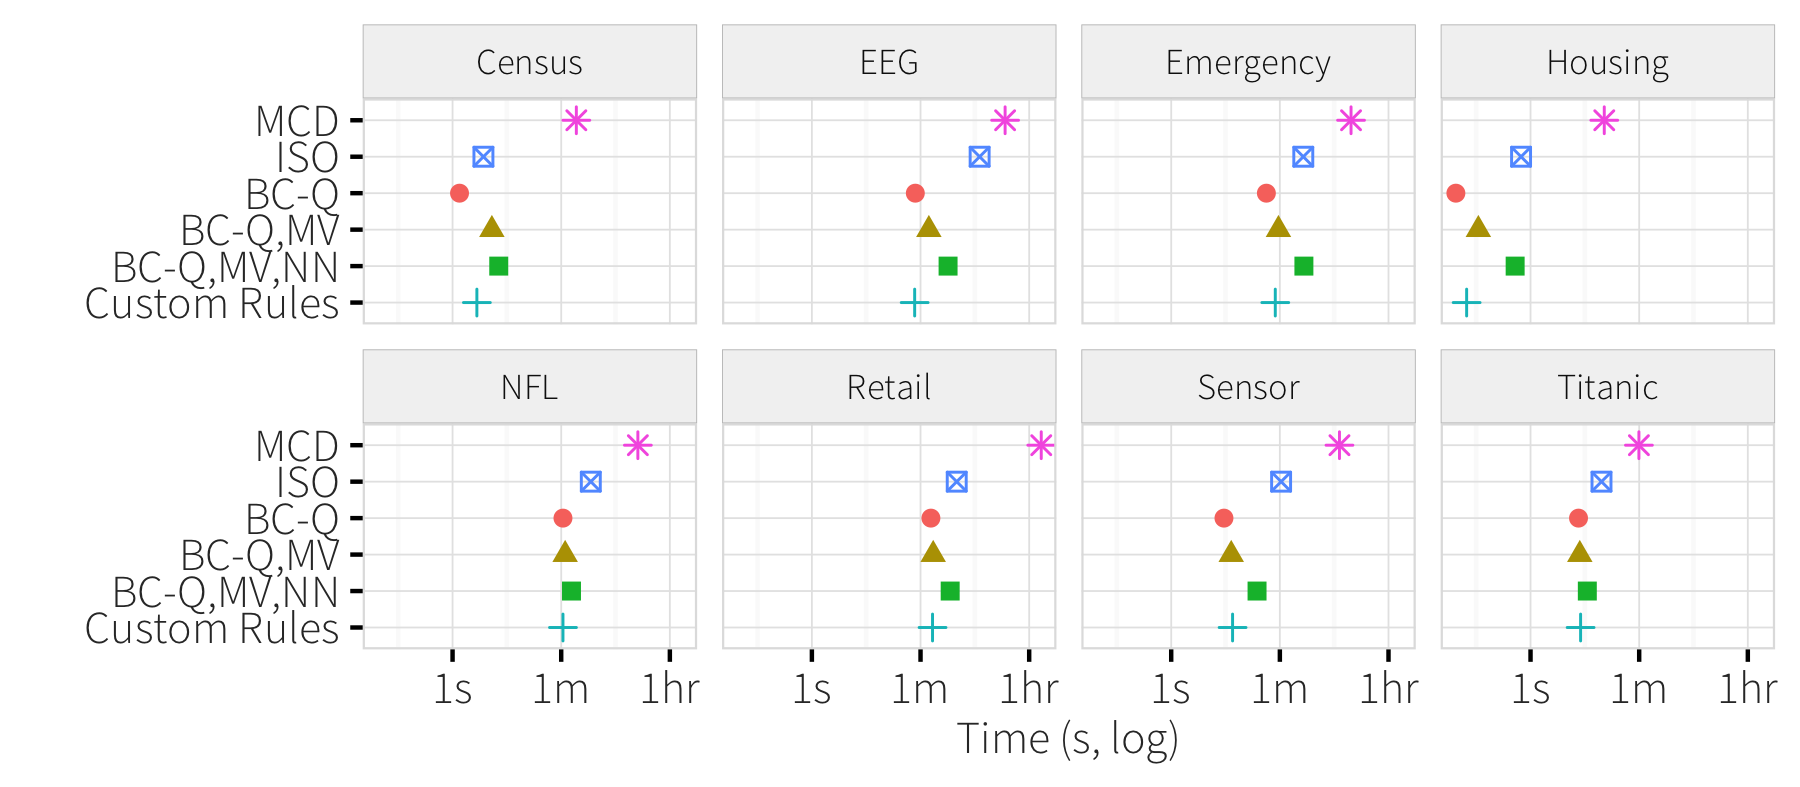
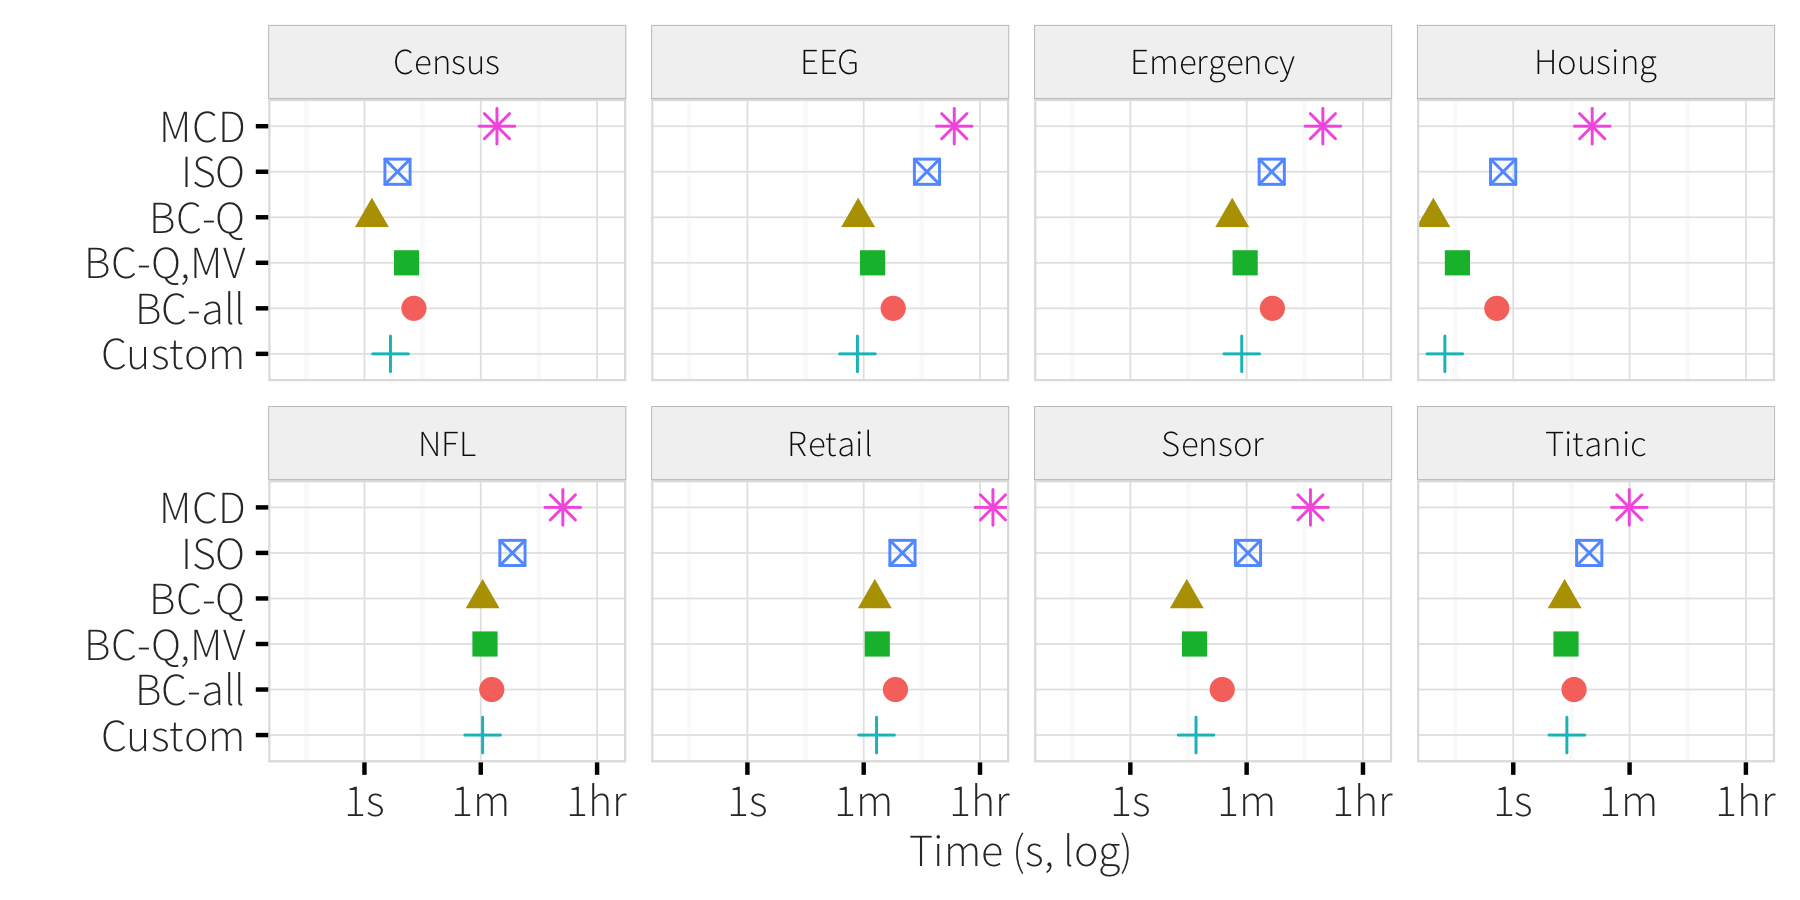
figs

diff --git a/analysis/plot.py b/analysis/plot.py
@@ -22,7 +22,7 @@ rows = [[0.24 , 0.39  , 0.34   , 0.84   , 0.93  ,  1],
 [0.01  ,  0.03   , 0.04   , 1  , 0.98   , 1],
 [0.66  ,  0.61  ,  0.62  ,  0.82  ,  0.94 ,   1]]
 datasets = ['Census', 'Housing', 'Sensor', 'NFL', 'Titanic', 'Retail' , 'Emergency', 'EEG']
-approaches = ['MCD', 'ISO', 'BC-Q', 'BC-Q,MV', 'BC-Q,MV,NN', 'Custom Rules']
+approaches = ['MCD', 'ISO', 'BC-Q', 'BC-Q,MV', 'BC-all', 'Custom']
 
 data = []
 for dataset, row in zip(datasets, rows):
@@ -41,13 +41,13 @@ legend_none += theme(**{
 p = ggplot(data, aes(x='key', y='val', color='key', shape='key'))
 p += facet_wrap("~dataset", ncol=4)
 p += coord_flip()
-p += geom_point(size=1.8)
+p += geom_point(size=2.5)
 p += guides(shape="FALSE", size="FALSE")
 p += axis_labels("", "F1 Score", "discrete", "continuous", 
     xkwargs=dict(lim=map(esc, list(reversed(approaches)))), 
     ykwargs=dict(lim=[0,1], breaks=[0, 0.25, .5, .75, 1], labels=map(esc, ["0", ".25", ".5", ".75", "1"])))
 p += legend_none
-ggsave("daccuracy.png", p, width=8, height=3.5, scale=scale)
+ggsave("daccuracy.png", p, width=8, height=4, scale=scale)
 
 
 
@@ -71,13 +71,13 @@ data = fold(data, approaches)
 p = ggplot(data, aes(x='key', y='val', color='key', shape='key'))
 p += facet_wrap("~dataset", ncol=4)
 p += coord_flip()
-p += geom_point(size=1.8)
+p += geom_point(size=2.5)
 p += legend_none
 p += guides(shape="FALSE", size="FALSE")
 p += axis_labels("", "Time (s, log)", "discrete", "log10", 
     xkwargs=dict(lim=map(esc, list(reversed(approaches)))),
     ykwargs=dict(breaks=[1, 60, 60*60], labels=map(esc, ["1s", "1m", "1hr"])))
-ggsave("druntime.png", p, width=8, height=3.5, scale=scale)
+ggsave("druntime.png", p, width=8, height=4, scale=scale)
 
 
 
